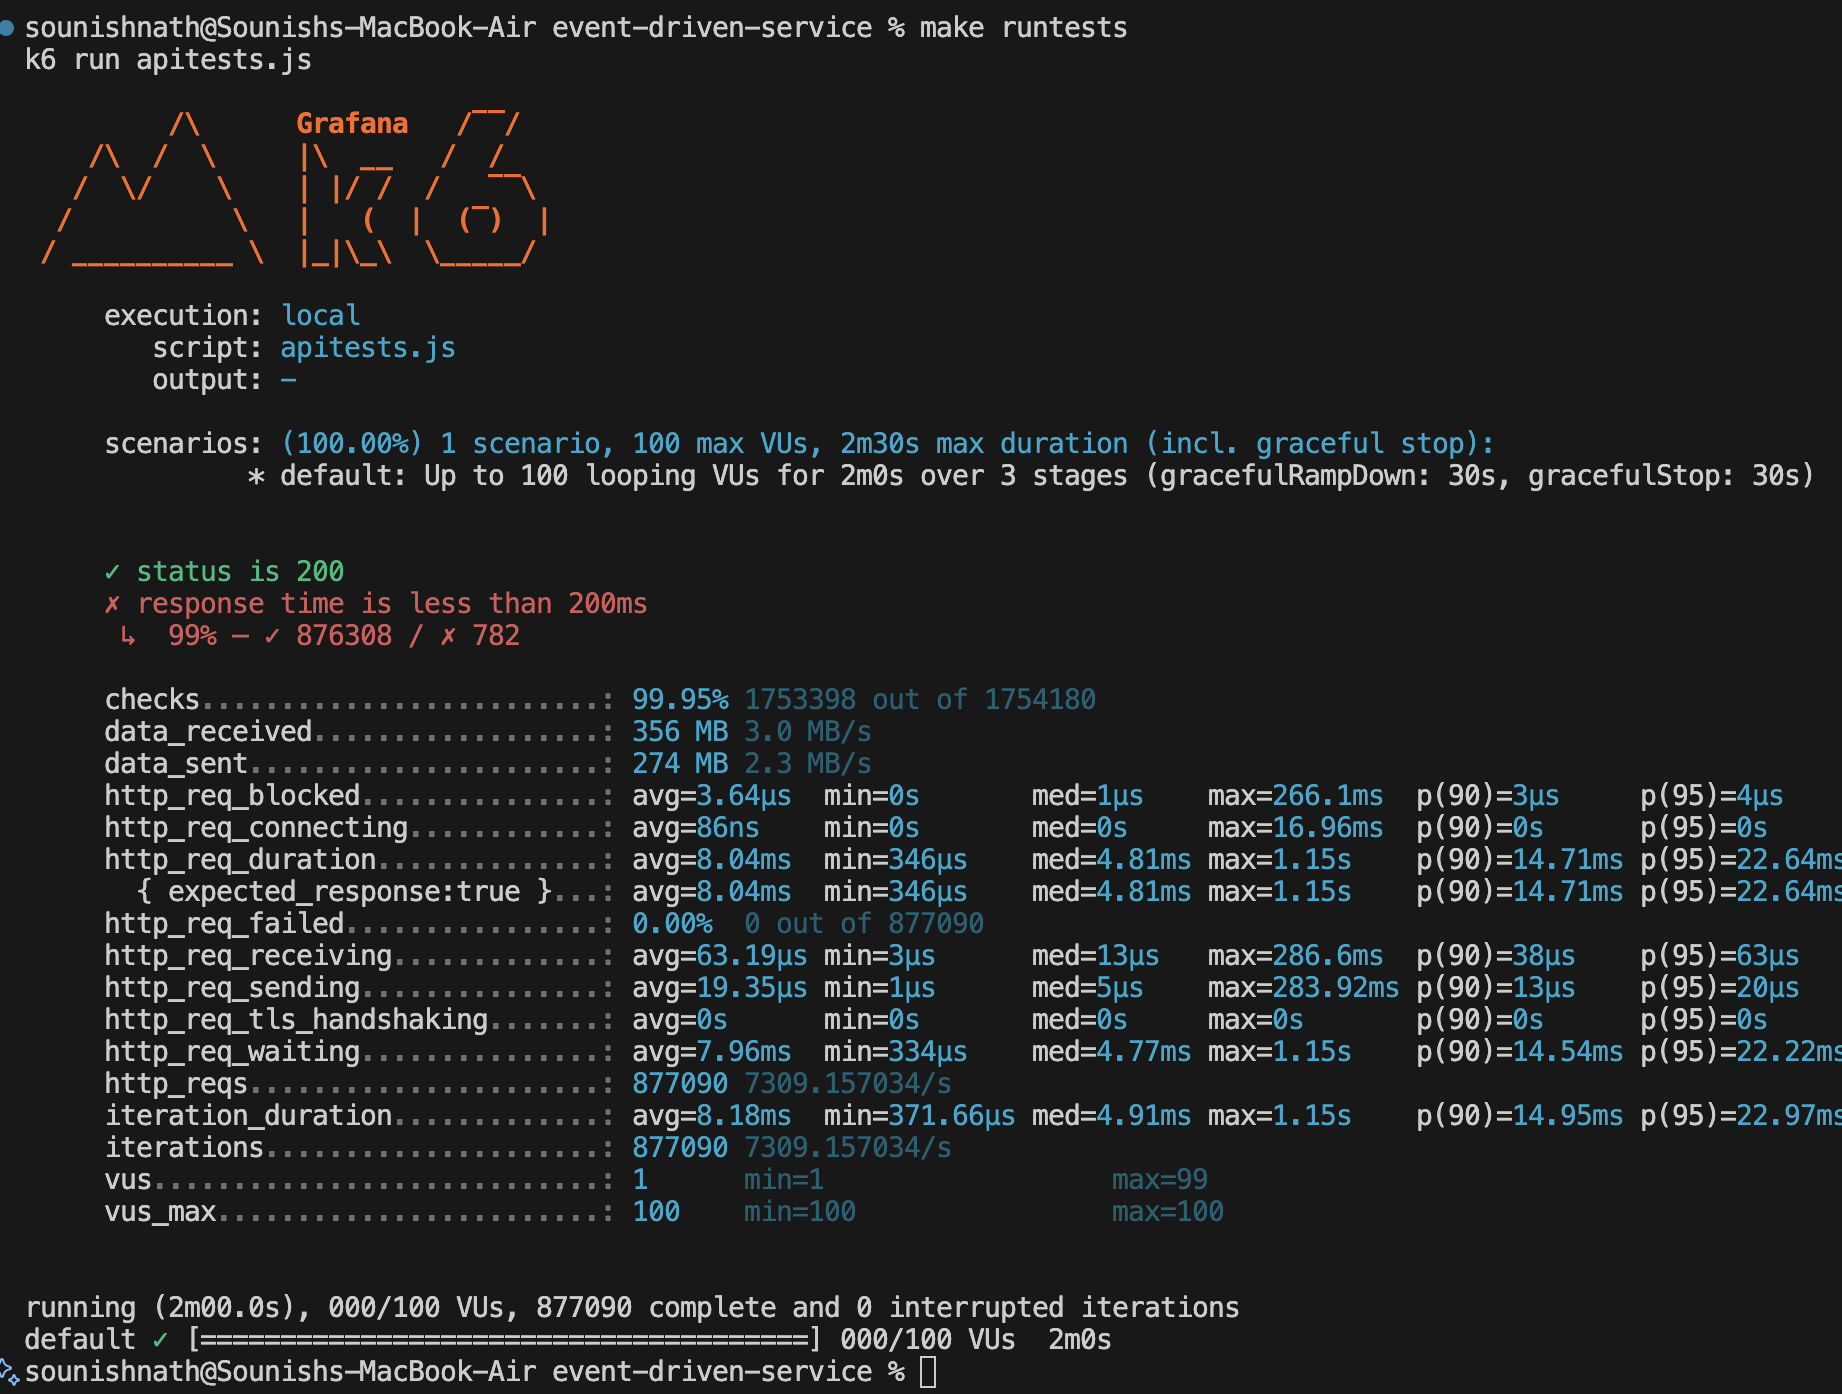
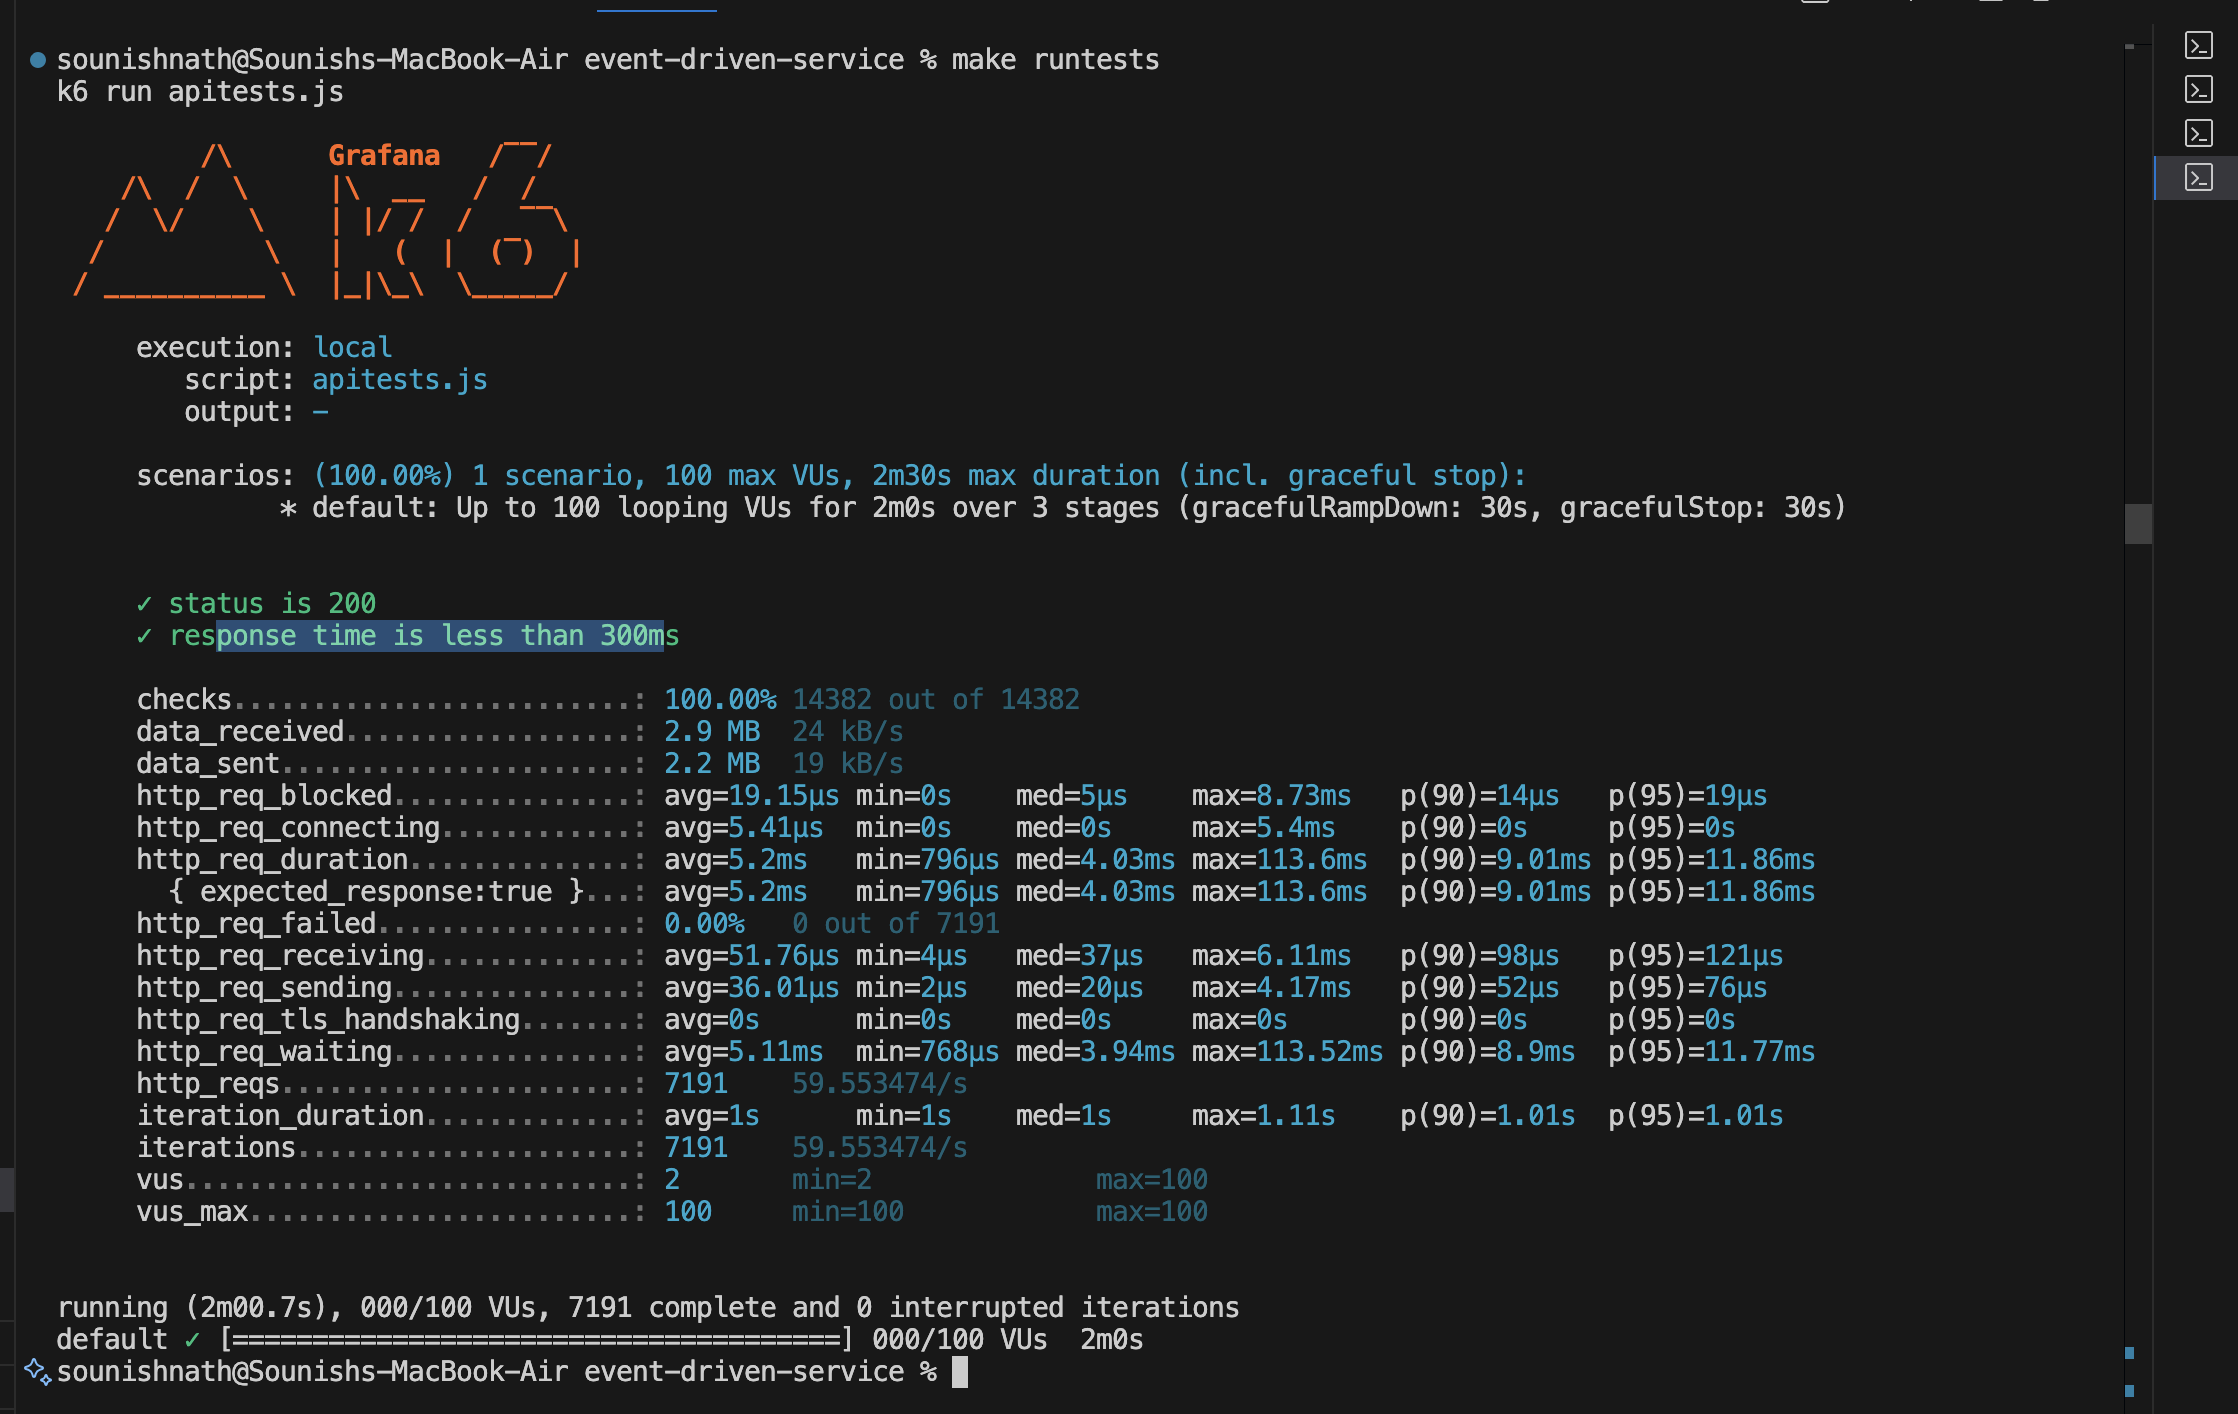
Update API tests for Kafka integration and adjust response time check; clean up Docker Compose by removing unused volume configurations

diff --git a/apitests.js b/apitests.js
@@ -23,11 +23,12 @@ export default function () {
         },
     };
 
+    // let res = http.post('http://localhost:3000/api/create-post-without-kafka', payload, params);
     let res = http.post('http://localhost:3000/api/create-post-with-kafka', payload, params);
 
     check(res, {
         'status is 200': (r) => r.status === 200,
-        'response time is less than 200ms': (r) => r.timings.duration < 200,
+        'response time is less than 300ms': (r) => r.timings.duration < 300,
     });
 
 }
